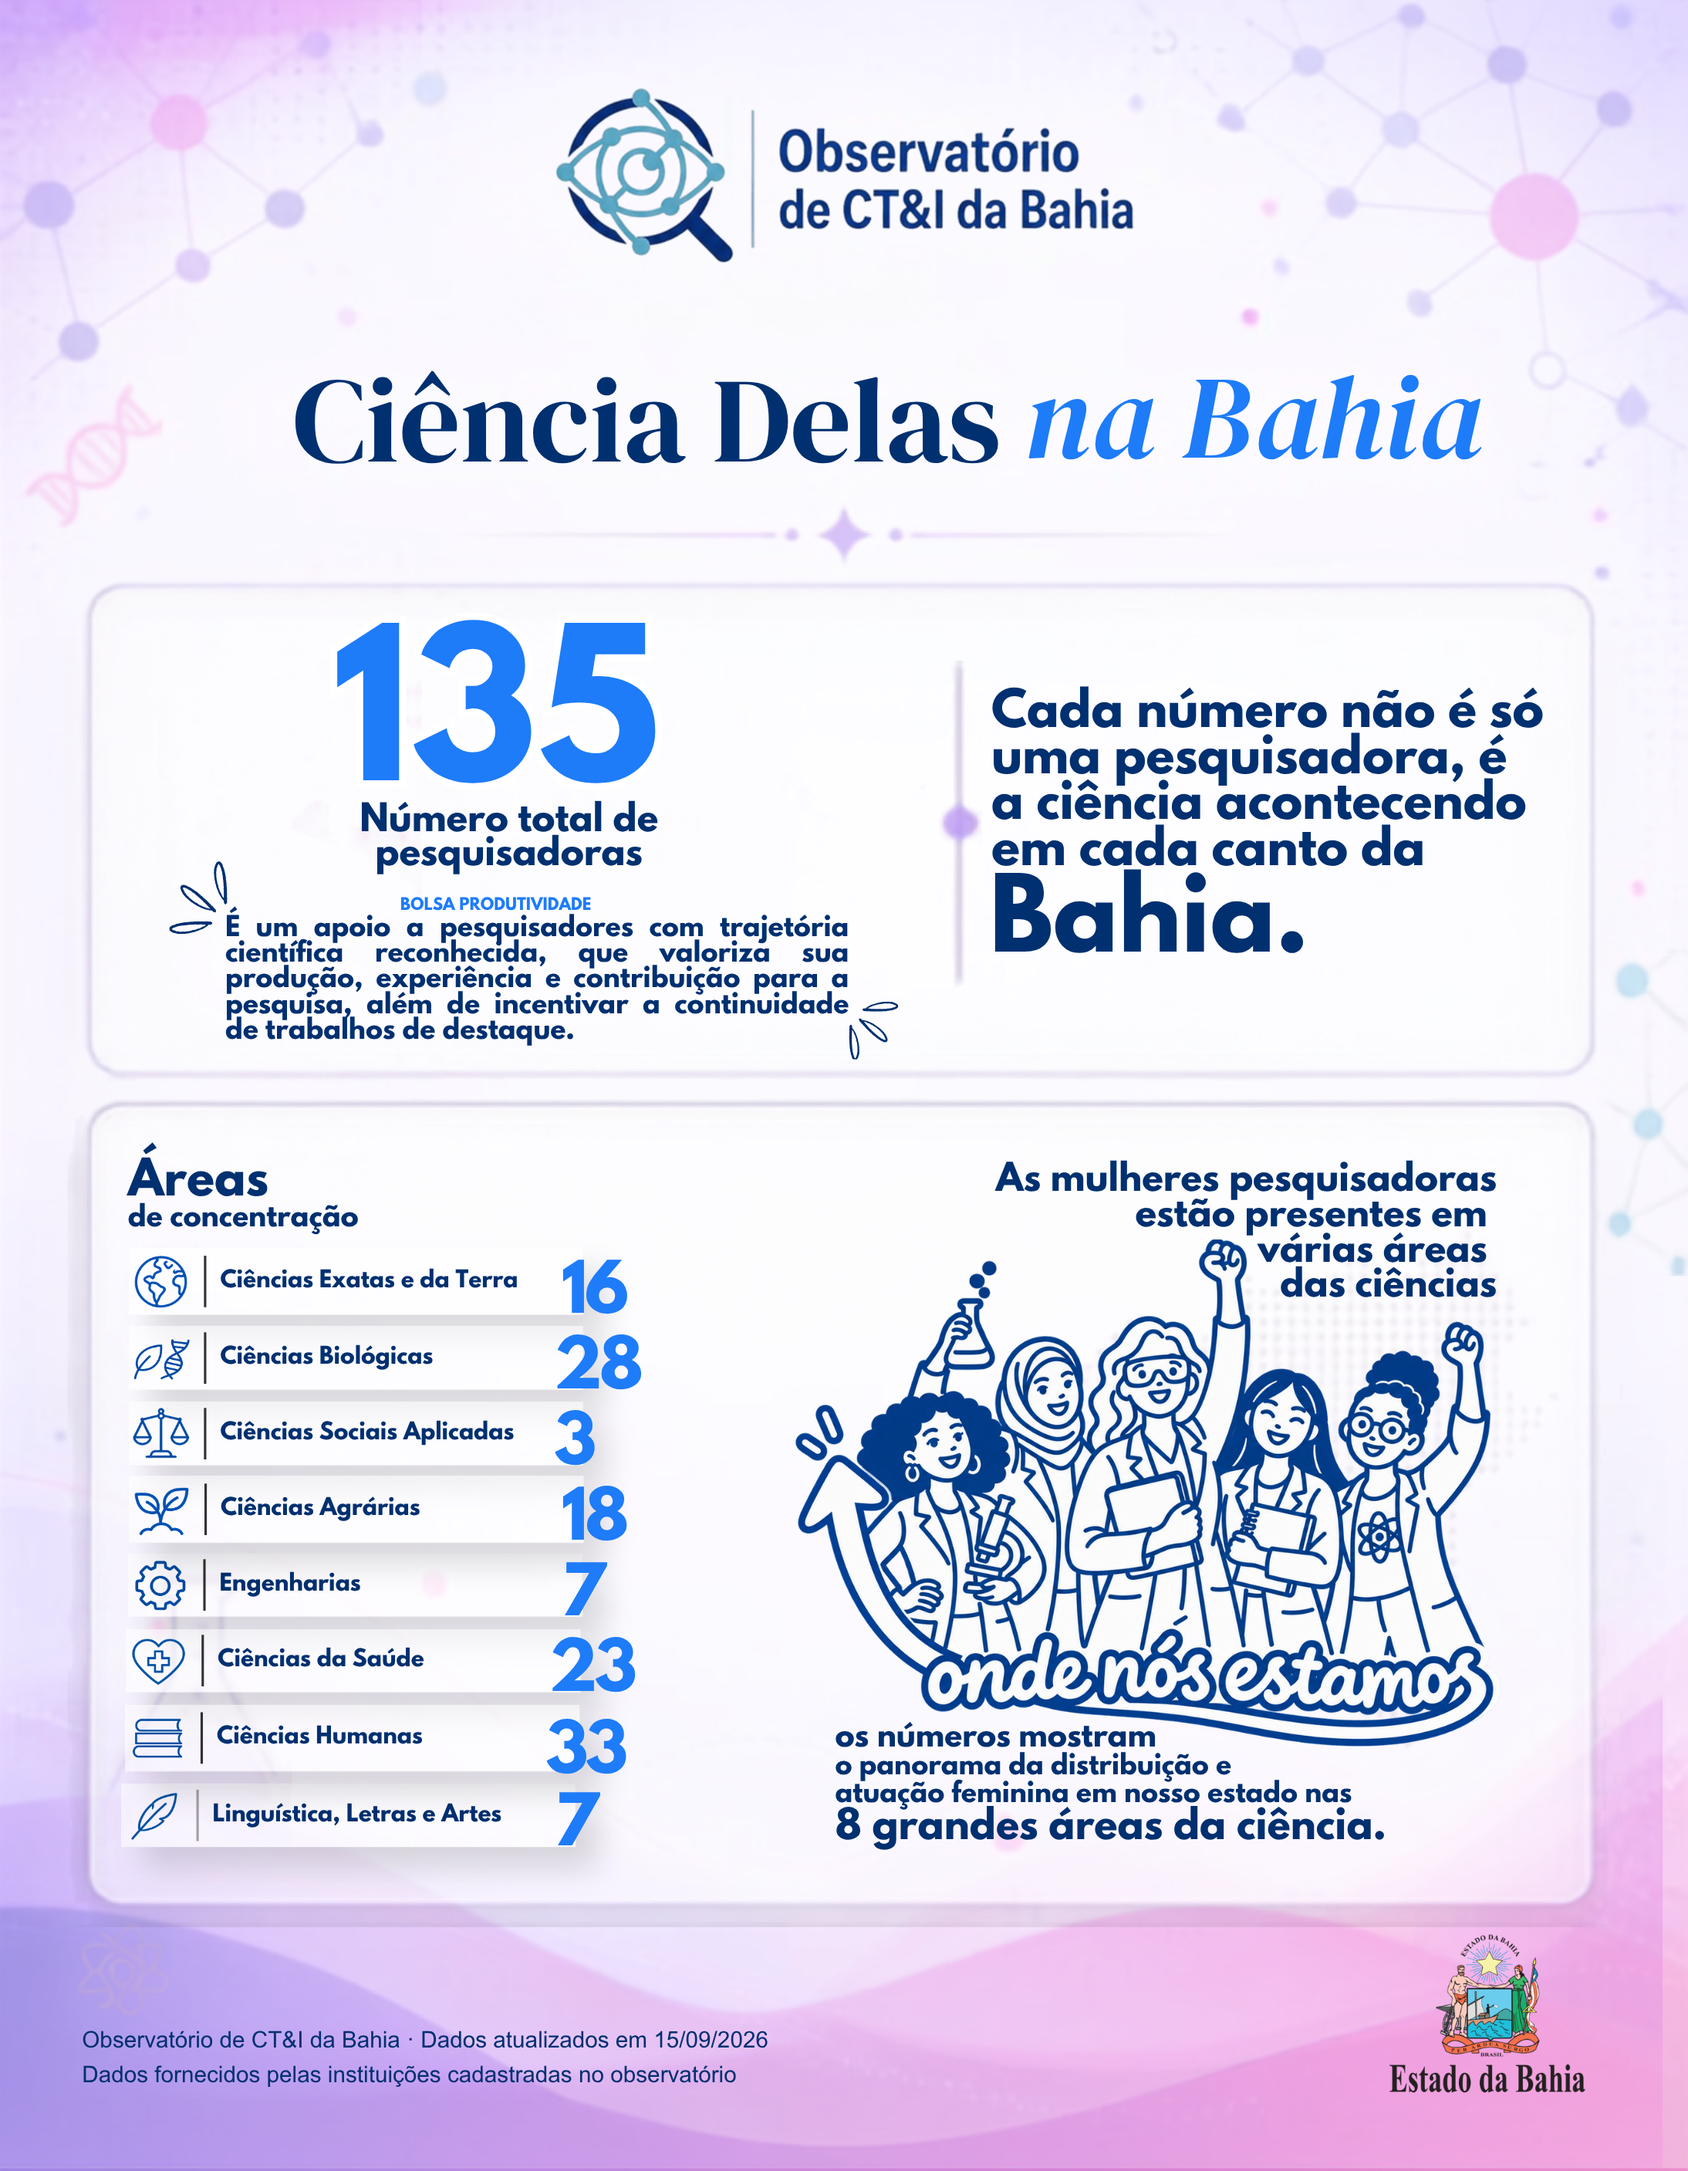
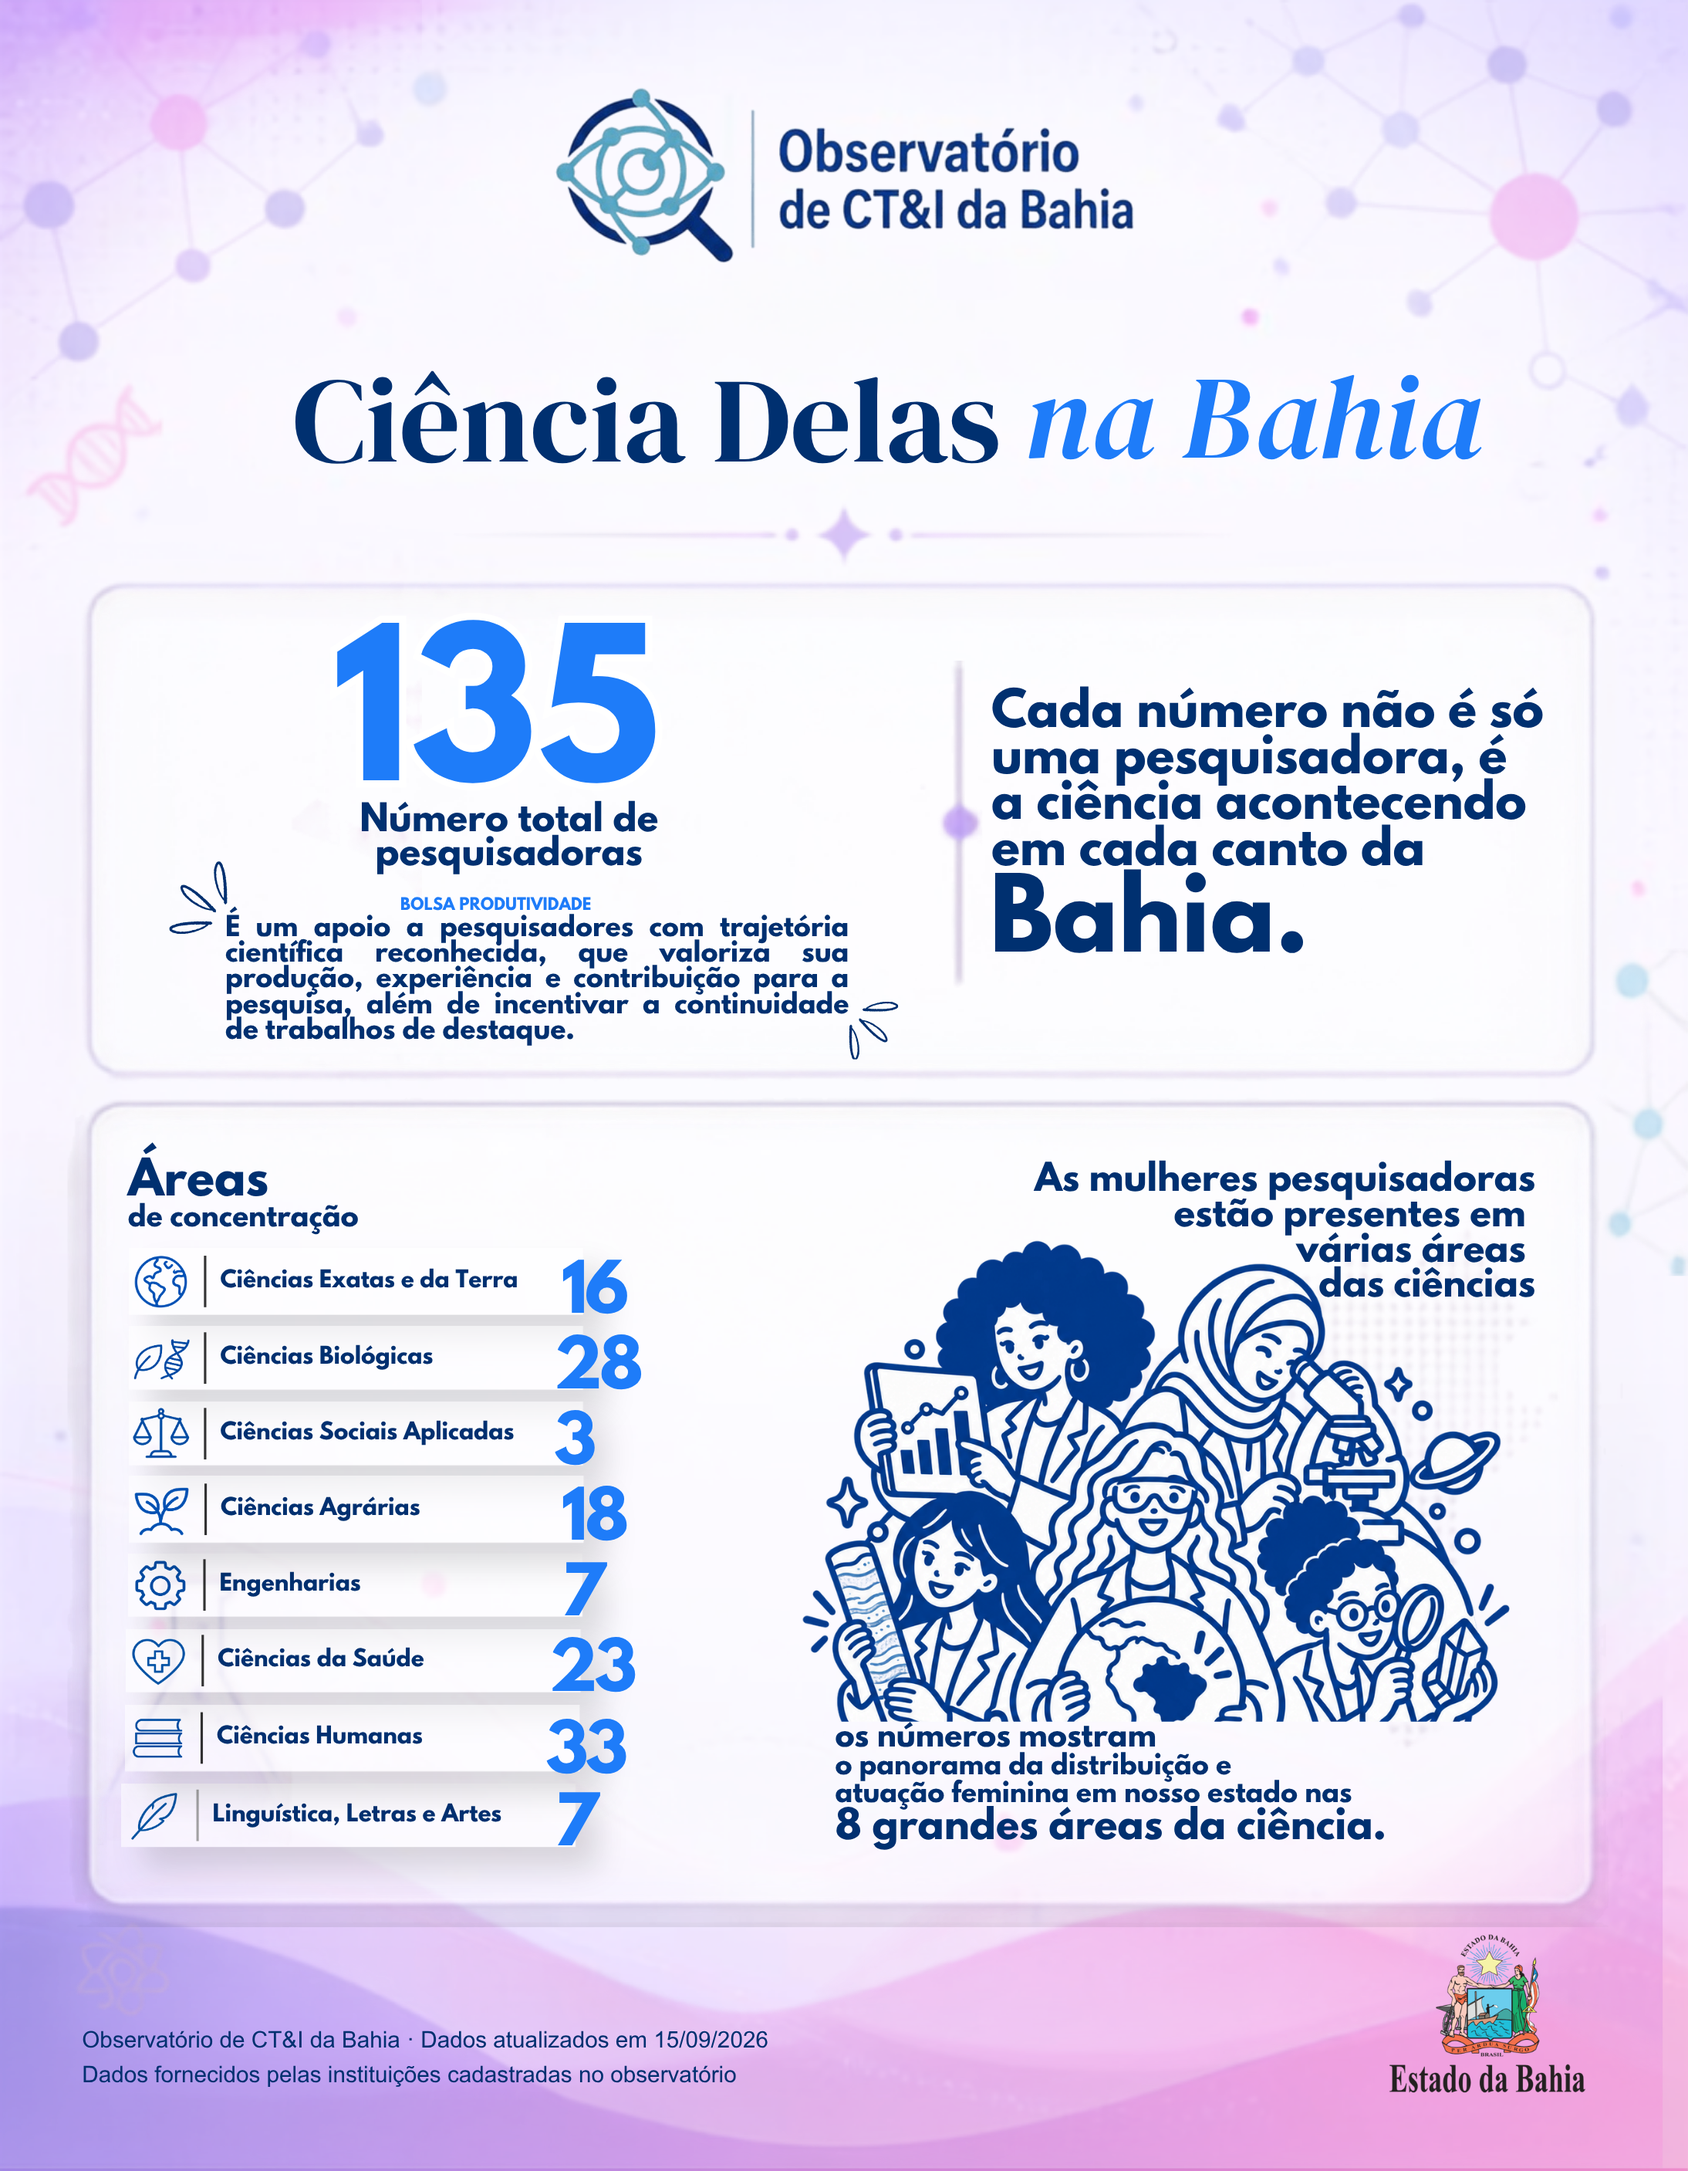
Atualiza recorte e infograficos finais

Changed region(s): [[0.4662, 0.5258, 0.9013, 0.8041]]

diff --git a/index.html b/index.html
@@ -36,8 +36,7 @@
           <div class="eyebrow"><span aria-hidden="true"></span> SNCT 2026 • SECTI-BA</div>
           <h1 id="page-title">CIÊNCIA <em>DELAS</em></h1>
           <p class="hero__scope">
-            Recorte da exposição: bolsistas de produtividade mapeadas pelo Observatório.
-            São pesquisadoras reconhecidas pela continuidade e relevância de sua produção científica.
+            Recorte de dados de bolsistas produtividade.
           </p>
           <p class="hero__subtitle">Mulheres que fazem ciência, tecnologia e inovação na Bahia</p>
           <p class="hero__intro">
@@ -148,6 +147,11 @@
             <span class="nav-card__arrow" aria-hidden="true">↗</span>
           </button>
         </div>
+
+        <p class="menu-note">
+          Este projeto apresenta pesquisadoras com bolsa de produtividade e suas áreas de atuação,
+          em um recorte da ampla e diversa produção científica feminina na Bahia.
+        </p>
       </section>
 
       <footer class="footer-highlight">

diff --git a/style.css b/style.css
@@ -354,6 +354,15 @@ h1 em {
   gap: clamp(12px, 1.8vh, 19px);
 }
 
+.menu-note {
+  max-width: 780px;
+  margin: clamp(18px, 2.4vh, 26px) 0 0;
+  color: var(--ink-soft);
+  font-size: clamp(.86rem, 1.35vw, 1rem);
+  font-weight: 600;
+  line-height: 1.48;
+}
+
 .nav-card {
   --card-accent: var(--violet);
   position: relative;
